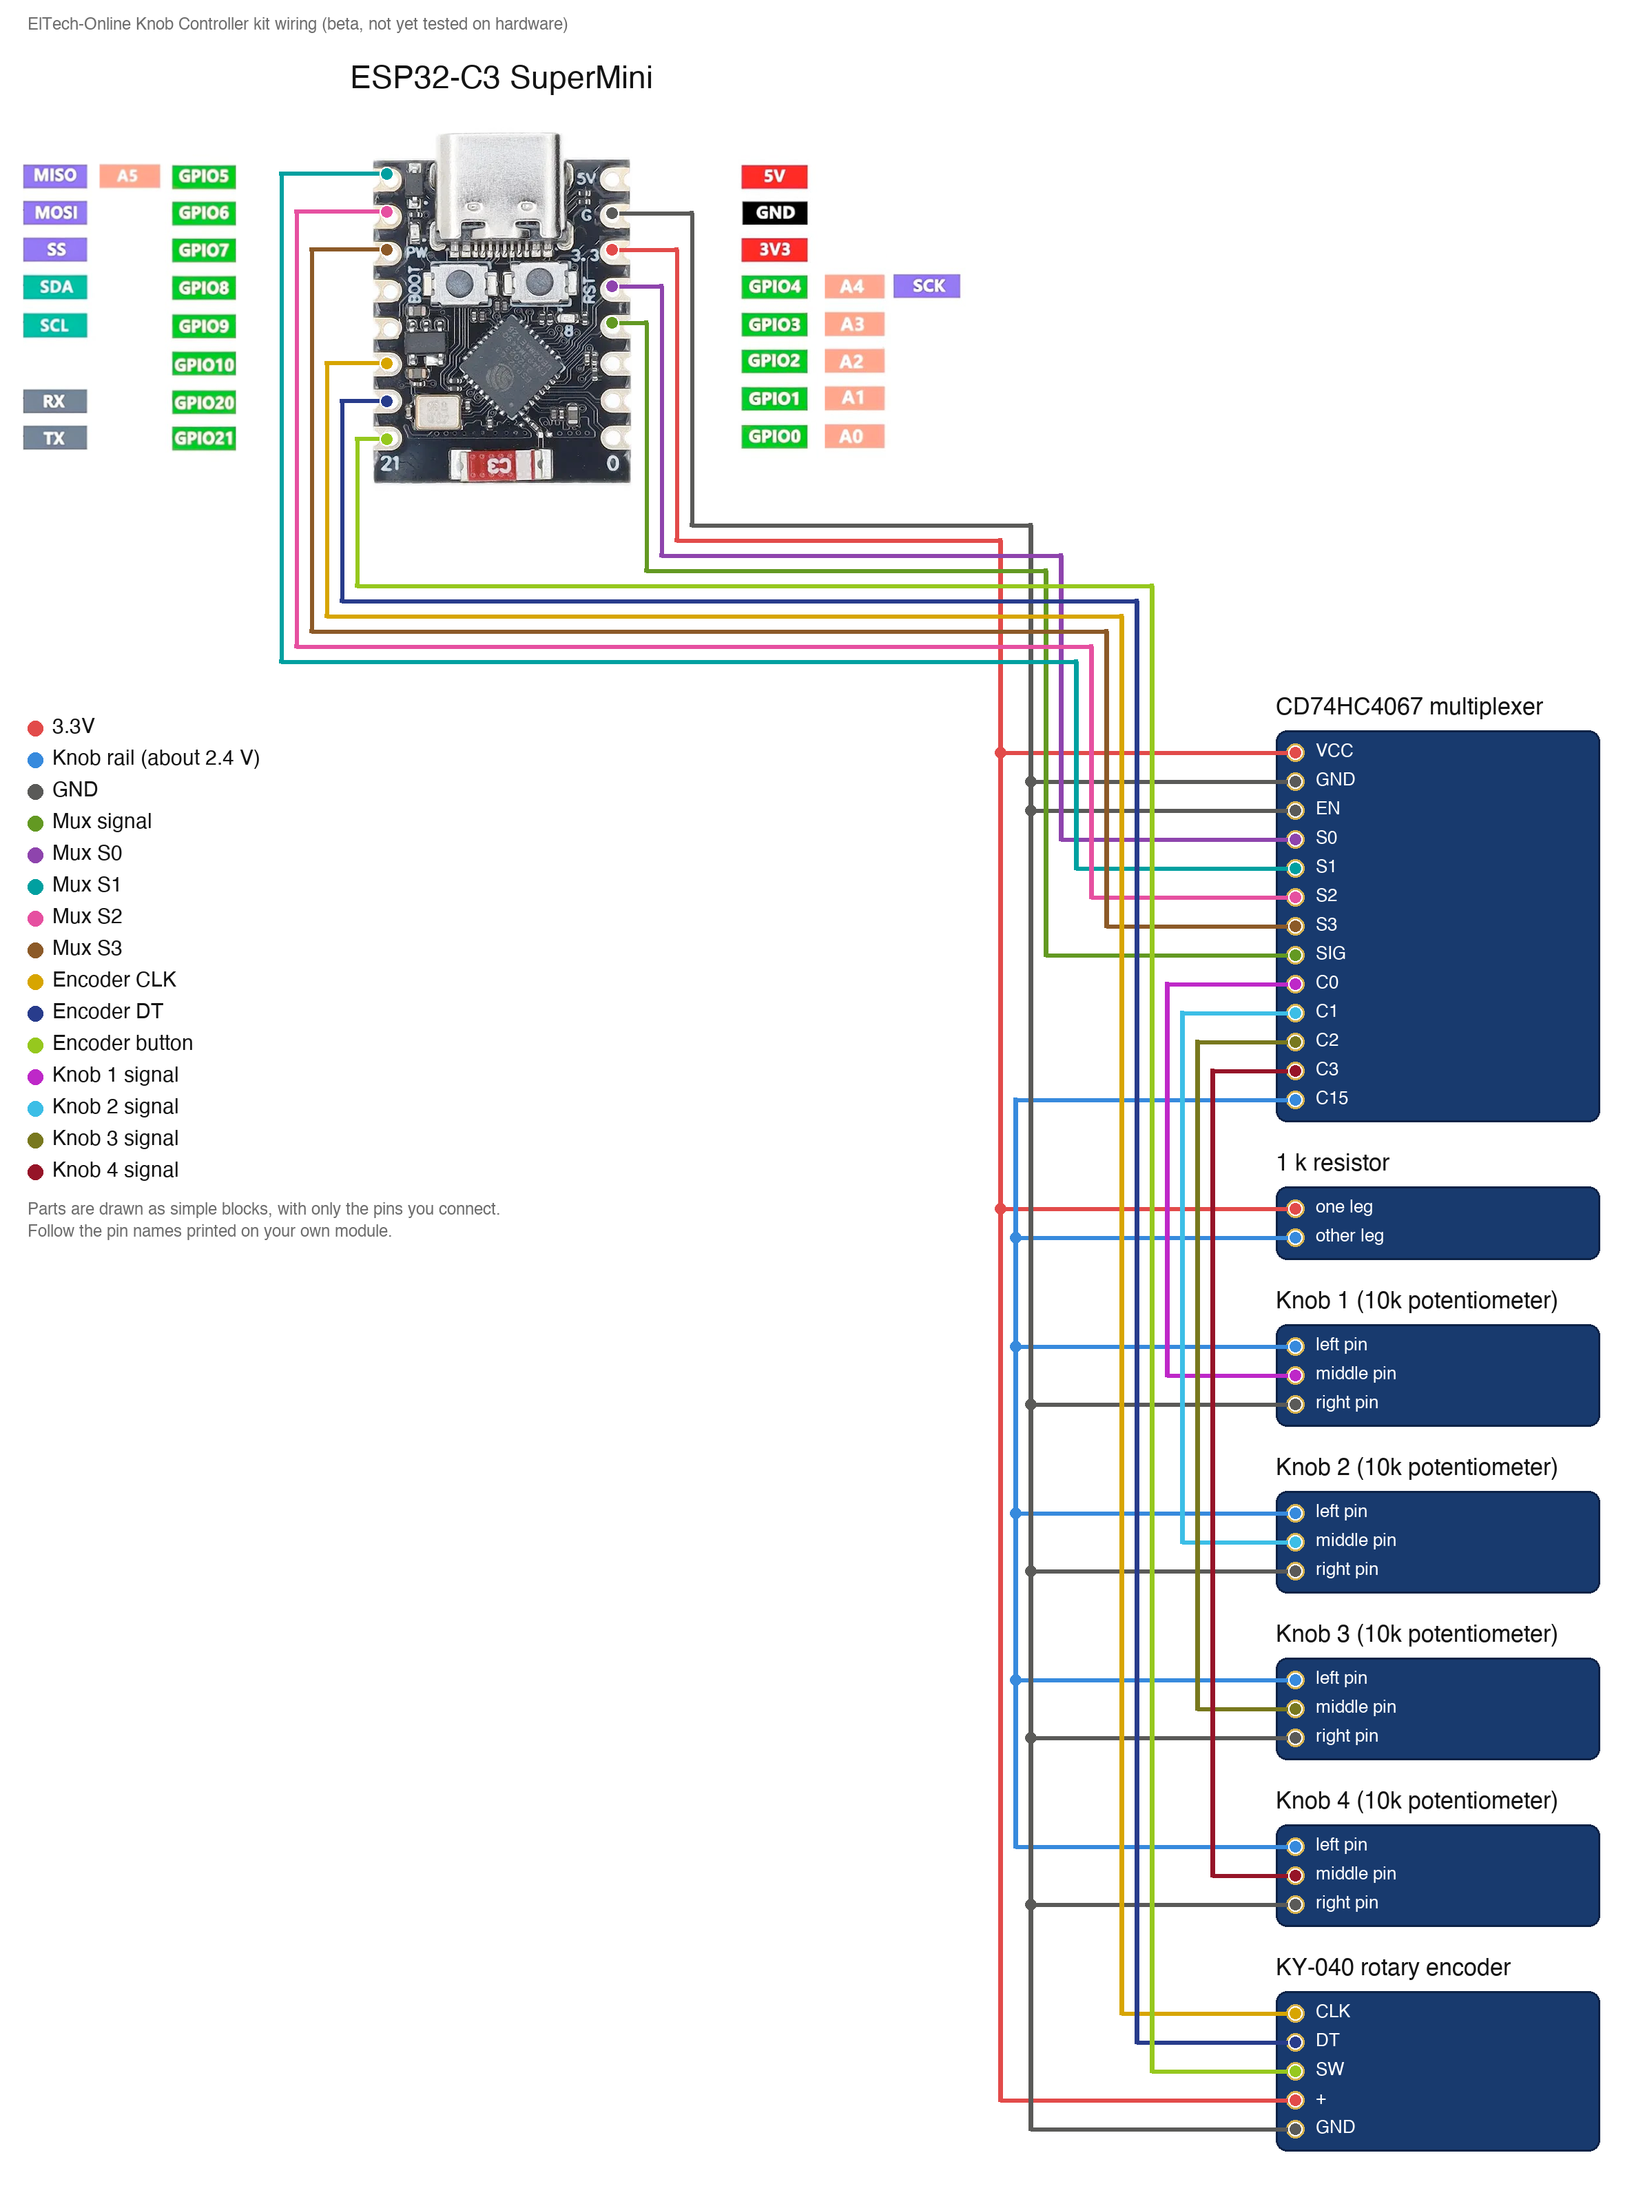
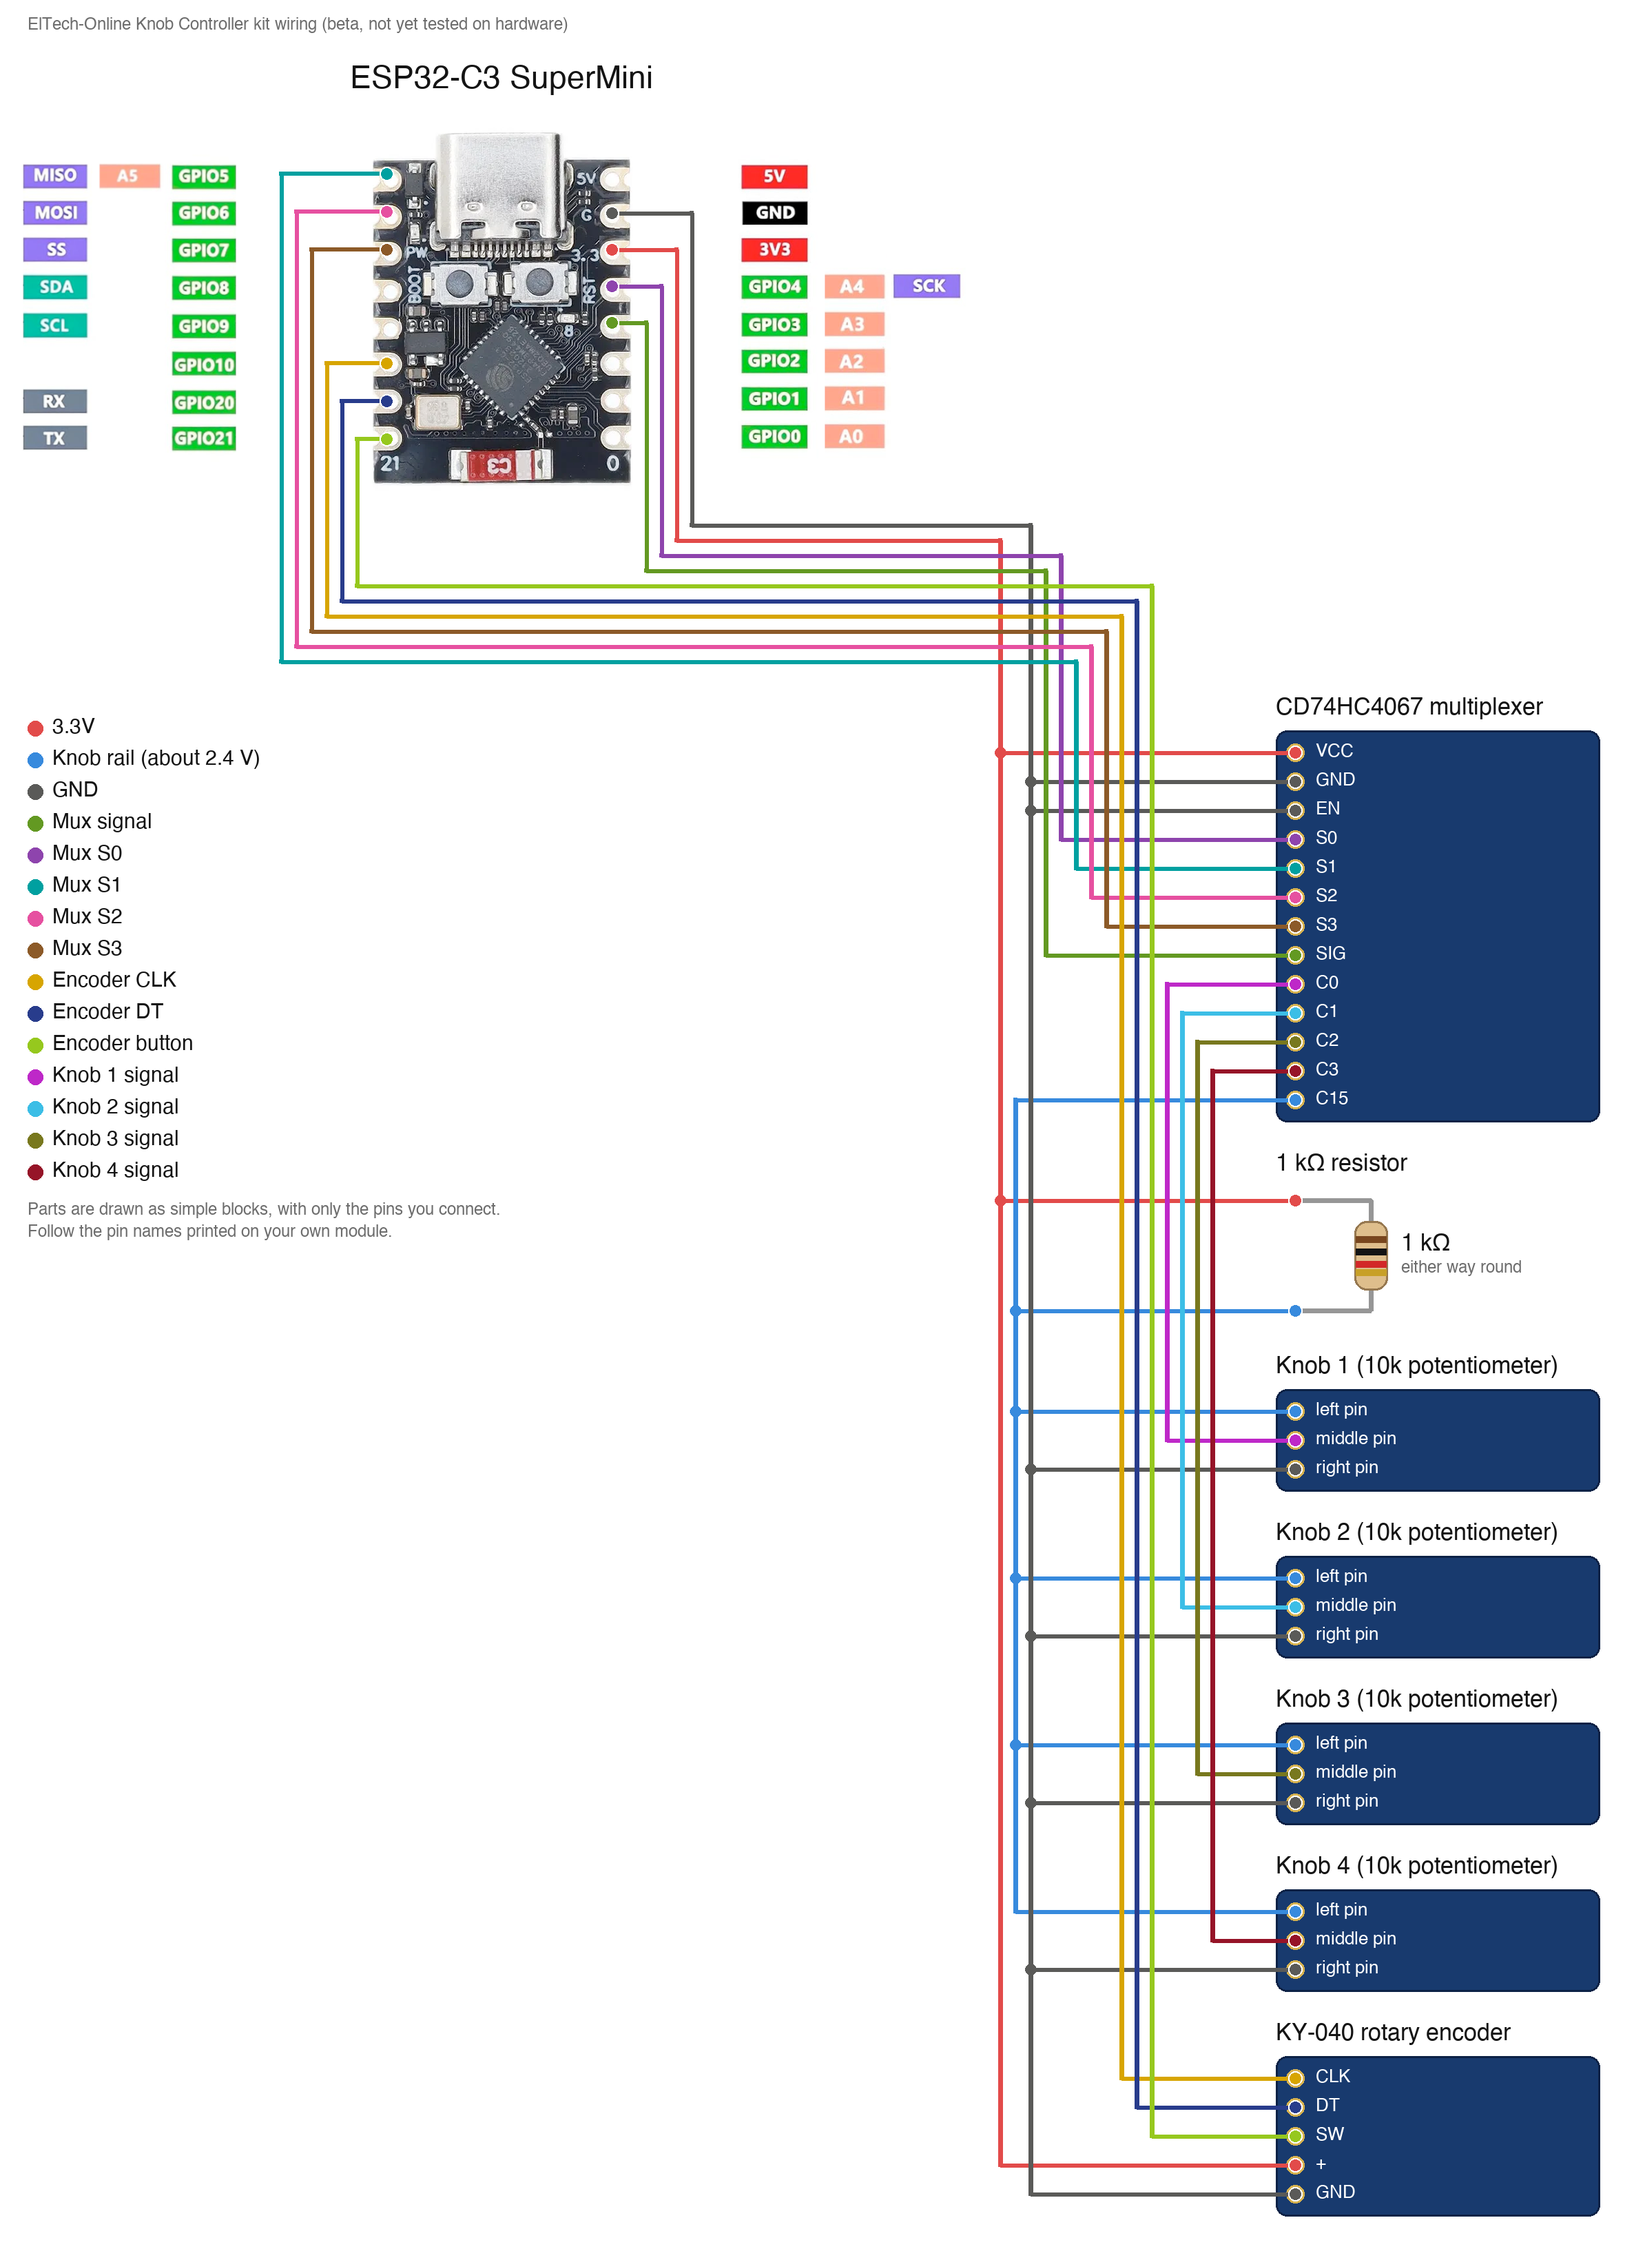
Wiring diagram: draw the 1 k resistor as a resistor, not a block

diff --git a/README.md b/README.md
@@ -100,8 +100,8 @@ There are **two sketches** in this repo:
 
 | Wire | ESP32-C3 pin | Connects to |
 |---|---|---|
-| 3.3V | 3V3 | CD74HC4067 multiplexer `VCC`, 1 k resistor `one leg`, KY-040 rotary encoder `+` |
-| Knob rail (about 2.4 V) | — | 1 k resistor `other leg`, Knob 1 `left pin`, Knob 2 `left pin`, Knob 3 `left pin`, Knob 4 `left pin`, CD74HC4067 multiplexer `C15` |
+| 3.3V | 3V3 | CD74HC4067 multiplexer `VCC`, 1 kΩ resistor `one leg`, KY-040 rotary encoder `+` |
+| Knob rail (about 2.4 V) | — | 1 kΩ resistor `other leg`, Knob 1 `left pin`, Knob 2 `left pin`, Knob 3 `left pin`, Knob 4 `left pin`, CD74HC4067 multiplexer `C15` |
 | GND | GND | CD74HC4067 multiplexer `GND`, CD74HC4067 multiplexer `EN`, Knob 1 `right pin`, Knob 2 `right pin`, Knob 3 `right pin`, Knob 4 `right pin`, KY-040 rotary encoder `GND` |
 | Mux signal | GPIO 3 | CD74HC4067 multiplexer `SIG` |
 | Mux S0 | GPIO 4 | CD74HC4067 multiplexer `S0` |
